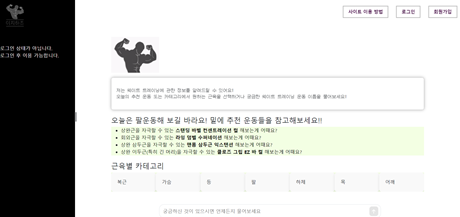
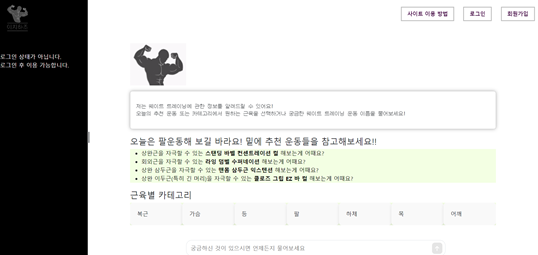
프로젝트 사진 수정

diff --git a/index.html b/index.html
@@ -104,7 +104,7 @@
             <div class="row">
                 <div class="project shadow-large">
                     <div class="project-image">
-                        <img src="images/capstondesign.jpg" style="height: 130%;">
+                        <img src="images/capstondesign.jpg">
                     </div>
                     <!-- End .project-image -->
                     <div class="project-info">
